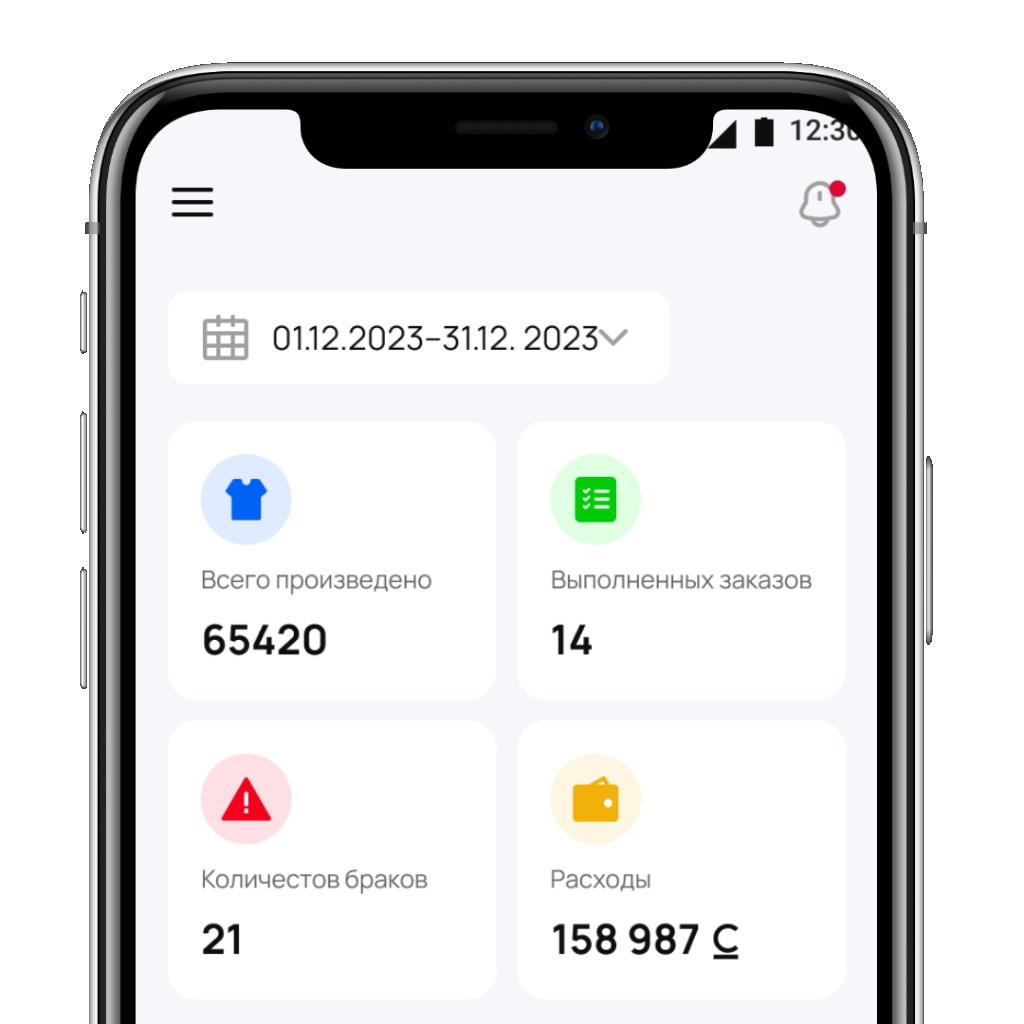
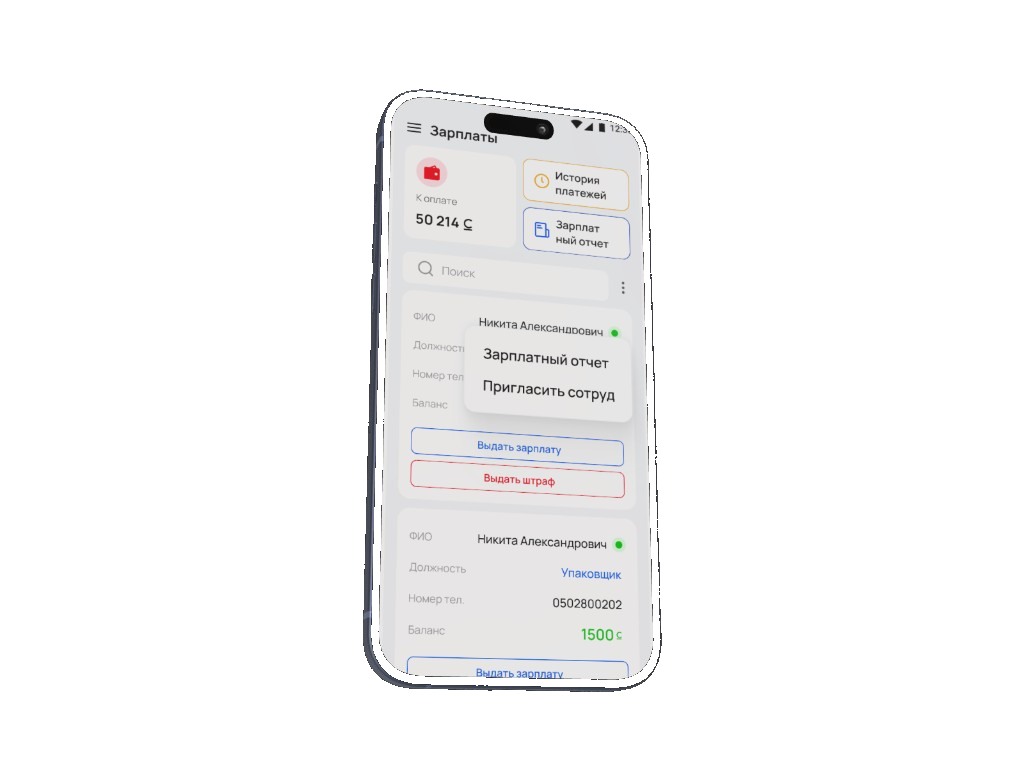
updated screen

diff --git a/templates/index.html b/templates/index.html
@@ -600,7 +600,7 @@
               alt="Мобильное приложение ШвейМетрикс"
               class="w-full max-w-[77px] lg:max-w-[98px] mx-auto lg:mx-0 object-contain drop-shadow-2xl"
               width="1024"
-              height="1024"
+              height="768"
               loading="lazy"
               decoding="async"
             />
